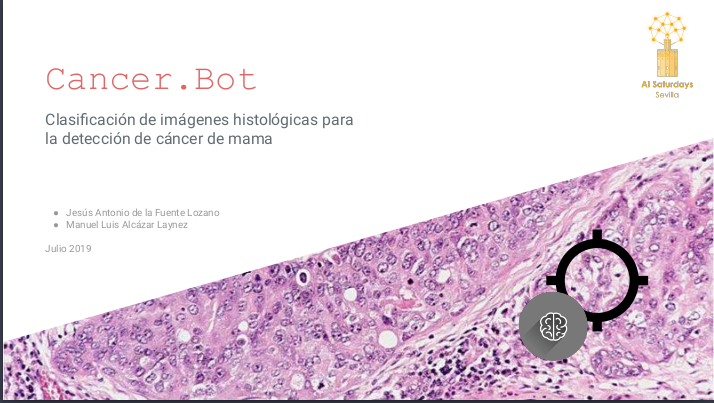
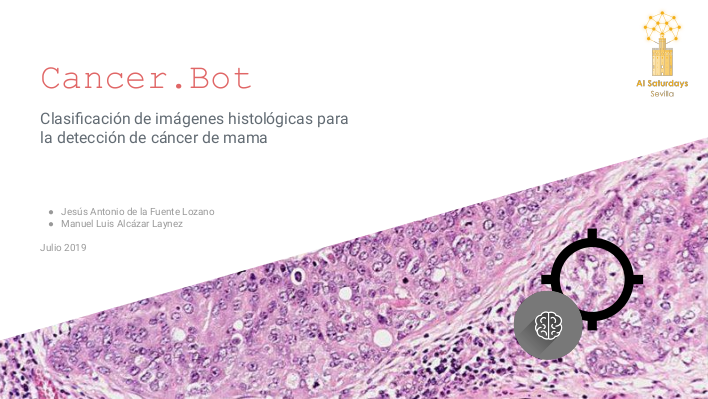
Corregida imagen de cabecera

diff --git a/README.md b/README.md
@@ -1,8 +1,6 @@
-# Cancer.Bot
+![# Cancer.Bot - Clasificación de imágenes histológicas para la detección de cáncer de mama](https://raw.githubusercontent.com/MrManlu/Cancer.Bot/master/IMG/CancerBot.png)
 
-_____________
-
-Clasificación de imágenes histológicas para la detección de cáncer de mama
+![alt text](https://raw.githubusercontent.com/MrManlu/Cancer.Bot/master/IMG/CancerBot.png "Logo Title Text 1")
 
 ## Sobre el proyecto
 Este repositorio contiene el proyecto de fin de curso realizado durante las clases de [Saturdays.AI][SatAI] realizadas en Sevilla durante el curso 2019. Otros proyectos presentados pueden encontrarse en [su repositorio de GitHub][SAGit]
